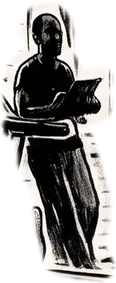
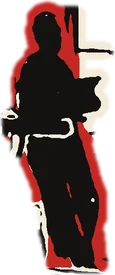
feat(dashboard): cảnh gym comic 3 màu, biển SUPER GYM tuột nghiêng, Pumpy cố nâng tạ
- Tranh gym mới (Gemini, phong cách comic punk) posterize thành 3 màu phẳng
  đen–kem–đỏ: bỏ hết tông xám nên hết cảm giác "nhựa AI".
- Tách lớp lại 10 nhân vật (rembg, GrabCut khi rembg không bắt được nét mực);
  người ngồi xem điện thoại và cô gái tóc xoăn giữ tĩnh vì không tách sạch.
- Biển SUPER GYM là lớp riêng: tuột xích bên phải, treo nghiêng và lắc lư; chỗ
  biển để lộ là tường đen kèm móc treo.
- Pumpy vẽ lại bằng SVG theo đúng hình linh vật (thân tròn, tay chân tròn, bụng
  xoáy, miệng zigzag), nét mực 3 màu, mắt nhắm cố sức, mồ hôi; đứng dưới tay
  cô tóc bạch kim. Pumpy run run, quả tạ nhích lên rồi rơi xuống.
- Nút tạm dừng, chế độ nhẹ, giảm chuyển động vẫn dừng mọi lớp.

Claude-Session: https://claude.ai/code/session_01BEkzRAmJrhCBxdxCSw4XCL

diff --git a/src/main/webapp/css/dashboard-comic.css b/src/main/webapp/css/dashboard-comic.css
@@ -113,7 +113,7 @@ html body.dock .pt-board__hero .wx-card__temp { color: var(--comic-ink); -webkit
 
 /* =====================================================================
    Tranh comic raster (15/10/2026): ảnh mực đen trắng do nhóm tạo bằng Gemini, ghép bằng script.
-   Khối gym: ảnh nền + 13 lớp nhân vật tách riêng, mỗi người một cử động nhẹ (motion comic). Khối thời tiết: thành phố trong bóng đầu người, mỗi thời tiết một tranh.
+   Khối gym: tranh 3 màu, các lớp nhân vật tách riêng + biển SUPER GYM tuột nghiêng + Pumpy cố nâng tạ (motion comic). Khối thời tiết: thành phố trong bóng đầu người, mỗi thời tiết một tranh.
    Tạm dừng/ngủ dùng chung quy tắc .comic-scene--sleeping ở trên; reduced motion tắt hết.
    ===================================================================== */
 .comic-photo {
@@ -130,19 +130,19 @@ html body.dock .pt-board__hero .wx-card__temp { color: var(--comic-ink); -webkit
 .pt-board__hero .wx-gym { background: var(--comic-paper-warm); }
 /* Mỗi nhân vật là một lớp (vị trí % theo ảnh nền 2400×837, sinh từ script tách lớp). */
 .comic-p { position: absolute; height: auto; display: block; transform-origin: 50% 100%; will-change: transform; }
-.comic-p--crowd { left: 49.25%; top: 43.011%; width: 10.042%; }
-.comic-p--tablet { left: 13.917%; top: 38.59%; width: 4.833%; }
-.comic-p--runner { left: 7.583%; top: 29.152%; width: 5.708%; }
-.comic-p--minor { left: 65.917%; top: 40.263%; width: 4.667%; }
-.comic-p--sidecut { left: 58.167%; top: 24.134%; width: 11.542%; }
-.comic-p--lifter { left: 25.042%; top: 17.563%; width: 12.167%; }
-.comic-p--bubble { left: 43.417%; top: 33.931%; width: 5.833%; }
-.comic-p--phone { left: 51.042%; top: 50.896%; width: 8.25%; }
-.comic-p--coach { left: 69.25%; top: 28.315%; width: 10.083%; }
-.comic-p--curly { left: 56.75%; top: 55.914%; width: 9.167%; }
-.comic-p--sketch { left: 18.833%; top: 45.4%; width: 13.0%; }
-.comic-p--boxer { left: 91.333%; top: 25.329%; width: 8.417%; }
-.comic-p--platinum { left: 77.625%; top: 10.394%; width: 13.333%; }
+.comic-p--sign { left: 49.917%; top: 10.992%; width: 12.75%; }
+.comic-p--tablet { left: 13.958%; top: 40.024%; width: 4.792%; }
+.comic-p--runner { left: 6.667%; top: 30.585%; width: 9.667%; }
+.comic-p--minor { left: 66.042%; top: 48.387%; width: 4.0%; }
+.comic-p--sidecut { left: 61.125%; top: 25.448%; width: 8.25%; }
+.comic-p--lifter { left: 24.875%; top: 19.355%; width: 13.0%; }
+.comic-p--bubble { left: 43.542%; top: 35.006%; width: 5.958%; }
+.comic-p--coach { left: 69.375%; top: 29.51%; width: 8.75%; }
+.comic-p--sketch { left: 18.917%; top: 46.834%; width: 12.875%; }
+.comic-p--boxer { left: 91.458%; top: 26.882%; width: 8.167%; }
+.comic-p--platinum { left: 69.375%; top: 11.47%; width: 17.917%; }
+.comic-p--pumpy { left: 78.625%; top: 68.339%; width: 9.833%; }
+.comic-p--pumpy-bell { left: 79.0%; top: 85.066%; width: 9.083%; }
 .comic-move--run { animation: comic-run-bob calc(var(--comic-cycle) / 16) ease-in-out infinite; }
 .comic-move--lift { animation: comic-lift var(--comic-cycle) ease-in-out infinite; }
 .comic-move--press { animation: comic-press calc(var(--comic-cycle) / 2) ease-in-out infinite; }
@@ -151,11 +151,32 @@ html body.dock .pt-board__hero .wx-card__temp { color: var(--comic-ink); -webkit
 .comic-p--tablet { animation-delay: -2s; }
 .comic-move--nod { transform-origin: 30% 100%; animation: comic-nod var(--comic-cycle) ease-in-out infinite; }
 .comic-move--talk { animation: comic-talk calc(var(--comic-cycle) / 4) ease-in-out infinite; }
-.comic-p--curly { animation-delay: -1s; animation-duration: calc(var(--comic-cycle) / 2.6); }
 .comic-move--sketch { transform-origin: 40% 100%; animation: comic-sketch-row calc(var(--comic-cycle) / 8) ease-in-out infinite; }
 .comic-move--punch { animation: comic-jab calc(var(--comic-cycle) / 4) ease-out infinite; }
 .comic-move--breathe { animation: comic-breathe-in calc(var(--comic-cycle) / 2) ease-in-out infinite; }
 .comic-move--crowd { animation: comic-crowd calc(var(--comic-cycle) / 2) ease-in-out infinite; }
+.comic-move--sign { transform-origin: 9% 8%; animation: comic-sign var(--comic-cycle) ease-in-out infinite; }
+.comic-move--strain { animation: comic-strain calc(var(--comic-cycle) / 2) linear infinite; }
+.comic-move--bell { transform-origin: 50% 50%; animation: comic-bell calc(var(--comic-cycle) / 2) ease-in-out infinite; }
+@keyframes comic-sign {
+  0%, 100% { transform: rotate(9deg); }
+  50% { transform: rotate(13deg); }
+  70% { transform: rotate(10.5deg); }
+}
+@keyframes comic-strain {
+  0%, 30%, 100% { transform: translate(0, 0); }
+  35%, 45%, 55% { transform: translate(-0.6%, -0.6%); }
+  40%, 50%, 60% { transform: translate(0.6%, -1.2%); }
+  70% { transform: translate(0, -2%) scaleY(1.02); }
+  80% { transform: translate(0, 0); }
+}
+@keyframes comic-bell {
+  0%, 30%, 100% { transform: translateY(0); }
+  40%, 60% { transform: translateY(-3%) rotate(-1deg); }
+  70% { transform: translateY(-9%) rotate(-2deg); }
+  78% { transform: translateY(1%); }
+  84% { transform: translateY(0); }
+}
 @keyframes comic-lift {
   0%, 8%, 50%, 58%, 100% { transform: translateY(0); }
   18%, 68% { transform: translateY(1.2%); }
